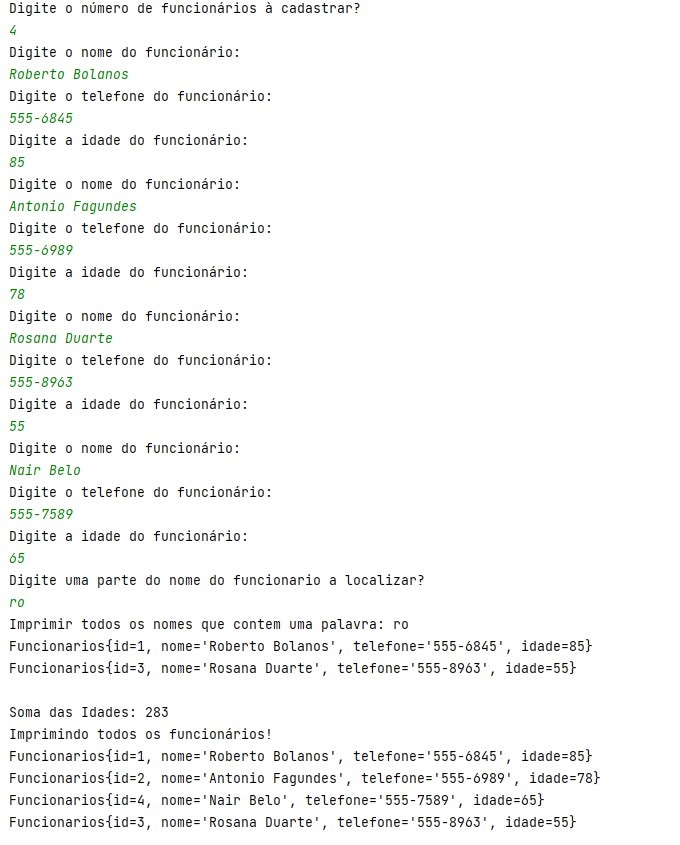
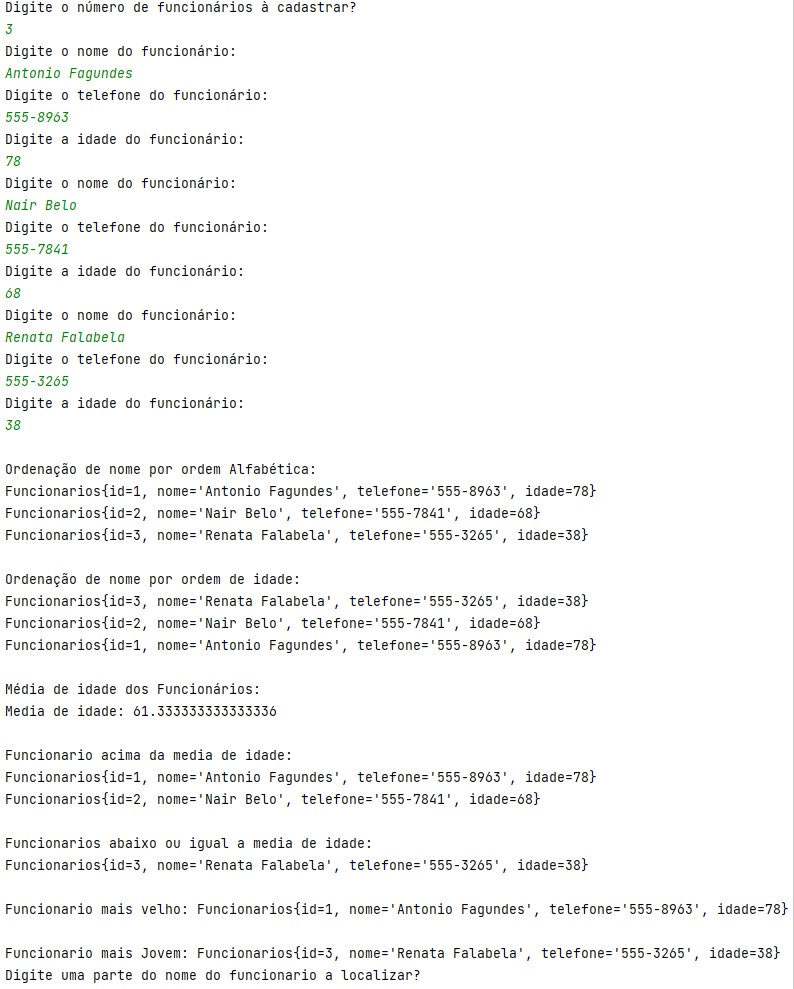
Projeto Final

Changed region(s): [[0.0, 0.0, 1.0, 1.0]]

diff --git a/src/application/Program.java b/src/application/Program.java
@@ -3,14 +3,15 @@ package application;
 import entities.Funcionarios;
 
 import java.util.ArrayList;
+import java.util.Comparator;
 import java.util.Scanner;
 import java.util.stream.Collectors;
 
 public class Program {
     public static void main(String[] args) {
         Scanner sc = new Scanner(System.in);
-
         var funcionario = new ArrayList<Funcionarios>();
+
         System.out.println("Digite o número de funcionários à cadastrar?");
         int n = sc.nextInt();
         for(int i = 1; i <= n; i++){
@@ -22,8 +23,56 @@ public class Program {
             System.out.println("Digite a idade do funcionário: ");
             int idade = sc.nextInt();
             funcionario.add(new Funcionarios(i, nome, telefone, idade));
-
         }
+
+        System.out.println();
+        System.out.println("Ordenação de nome por ordem Alfabética:");
+
+//        Ordenar lista por nome
+        funcionario.stream().sorted(Comparator.comparing(Funcionarios::getNome))
+                .distinct()
+                .limit(100)
+                .forEach(System.out::println);
+
+        System.out.println();
+        System.out.println("Ordenação de nome por ordem de idade:");
+
+//        Ordenar lista por idade
+        funcionario.stream().sorted(Comparator.comparing(Funcionarios::getIdade))
+                .distinct()
+                .limit(100)
+                .forEach(System.out::println);
+
+
+        System.out.println();
+        System.out.println("Média de idade dos Funcionários:");
+        var mediaIdade = funcionario.stream()
+                .mapToInt(Funcionarios::getIdade).average();
+        System.out.println("Media de idade: " + mediaIdade.getAsDouble());
+        System.out.println();
+        System.out.println("Funcionario acima da media de idade:");
+        funcionario.stream().filter( f -> f.getIdade() > mediaIdade.getAsDouble())
+                .distinct()
+                .collect(Collectors.toList())
+                .forEach(System.out::println);
+        System.out.println();
+        System.out.println("Funcionarios abaixo ou igual a media de idade: ");
+                funcionario.stream().filter( f -> f.getIdade() <= mediaIdade.getAsDouble())
+                        .distinct()
+                        .collect(Collectors.toList())
+                        .forEach(System.out::println);
+
+
+
+        var maisVelho = funcionario.stream()
+                .max(Comparator.comparing(Funcionarios::getIdade)).get();
+        var maisJovem = funcionario.stream()
+                .min(Comparator.comparing(Funcionarios::getIdade)).get();
+        System.out.println();
+        System.out.println("Funcionario mais velho: "+ maisVelho);
+        System.out.println();
+        System.out.println("Funcionario mais Jovem: "+ maisJovem);
+
         sc.nextLine();
         System.out.println("Digite uma parte do nome do funcionario a localizar? ");
         String localiza = sc.nextLine();
@@ -37,7 +86,7 @@ public class Program {
         System.out.println();
 
         System.out.println("Soma das Idades: " + somaDasIdades);
-
+        System.out.println();
         System.out.println("Imprimindo todos os funcionários!");
         var funcionarioSet = funcionario.stream().collect(Collectors.toSet());
         funcionarioSet.forEach(System.out::println);
